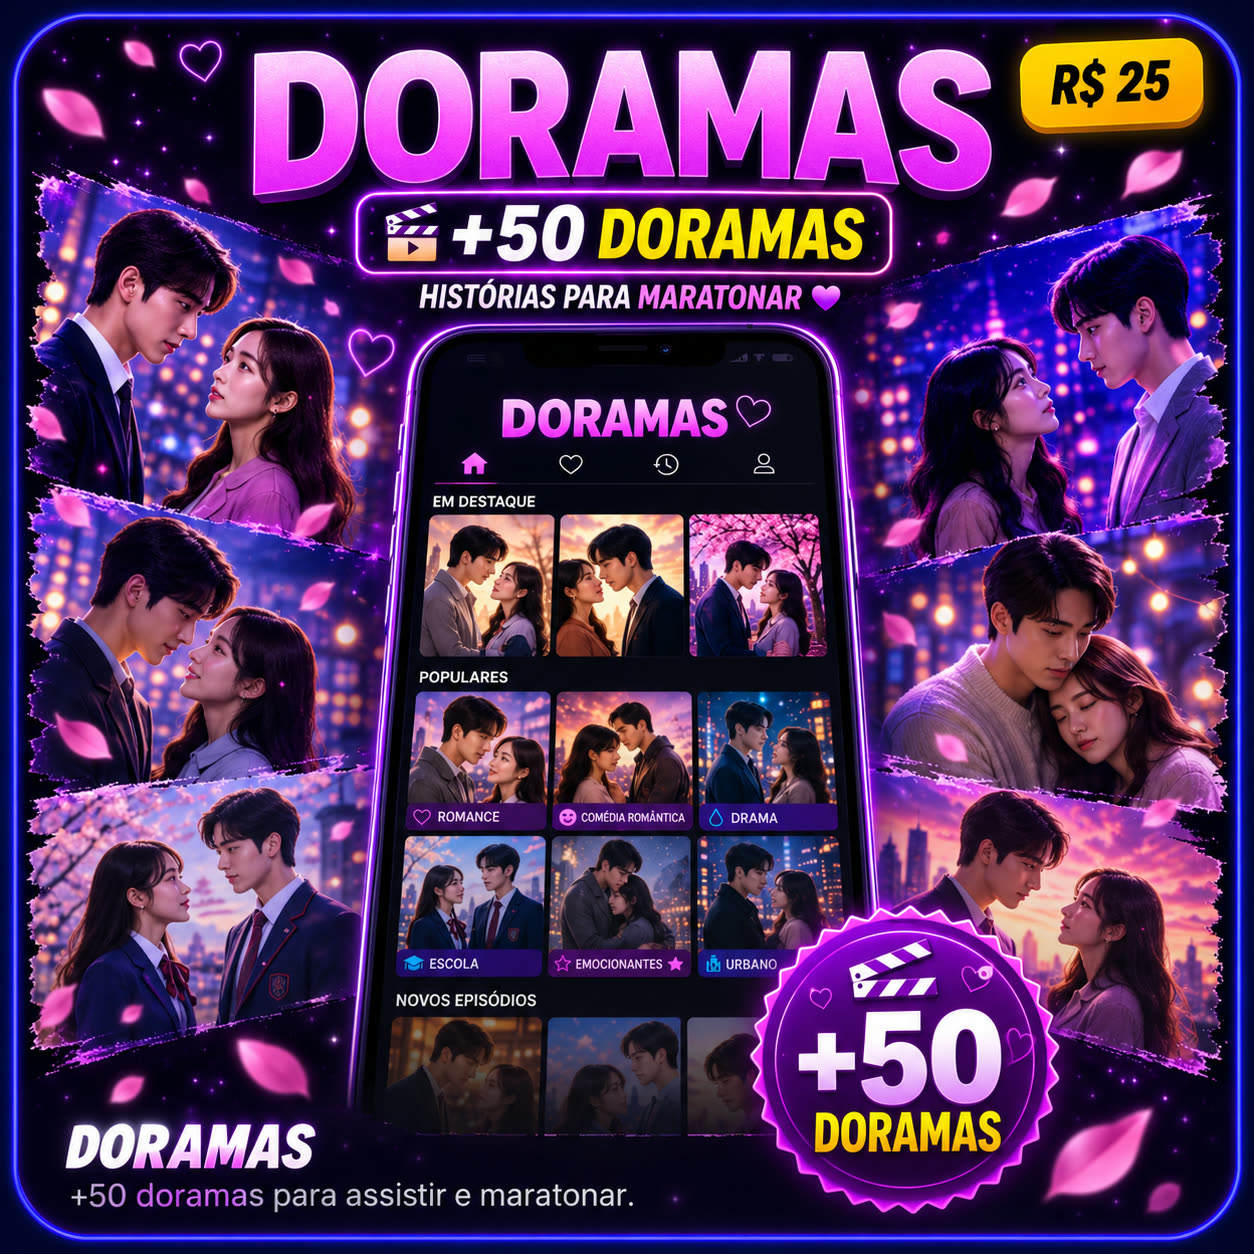
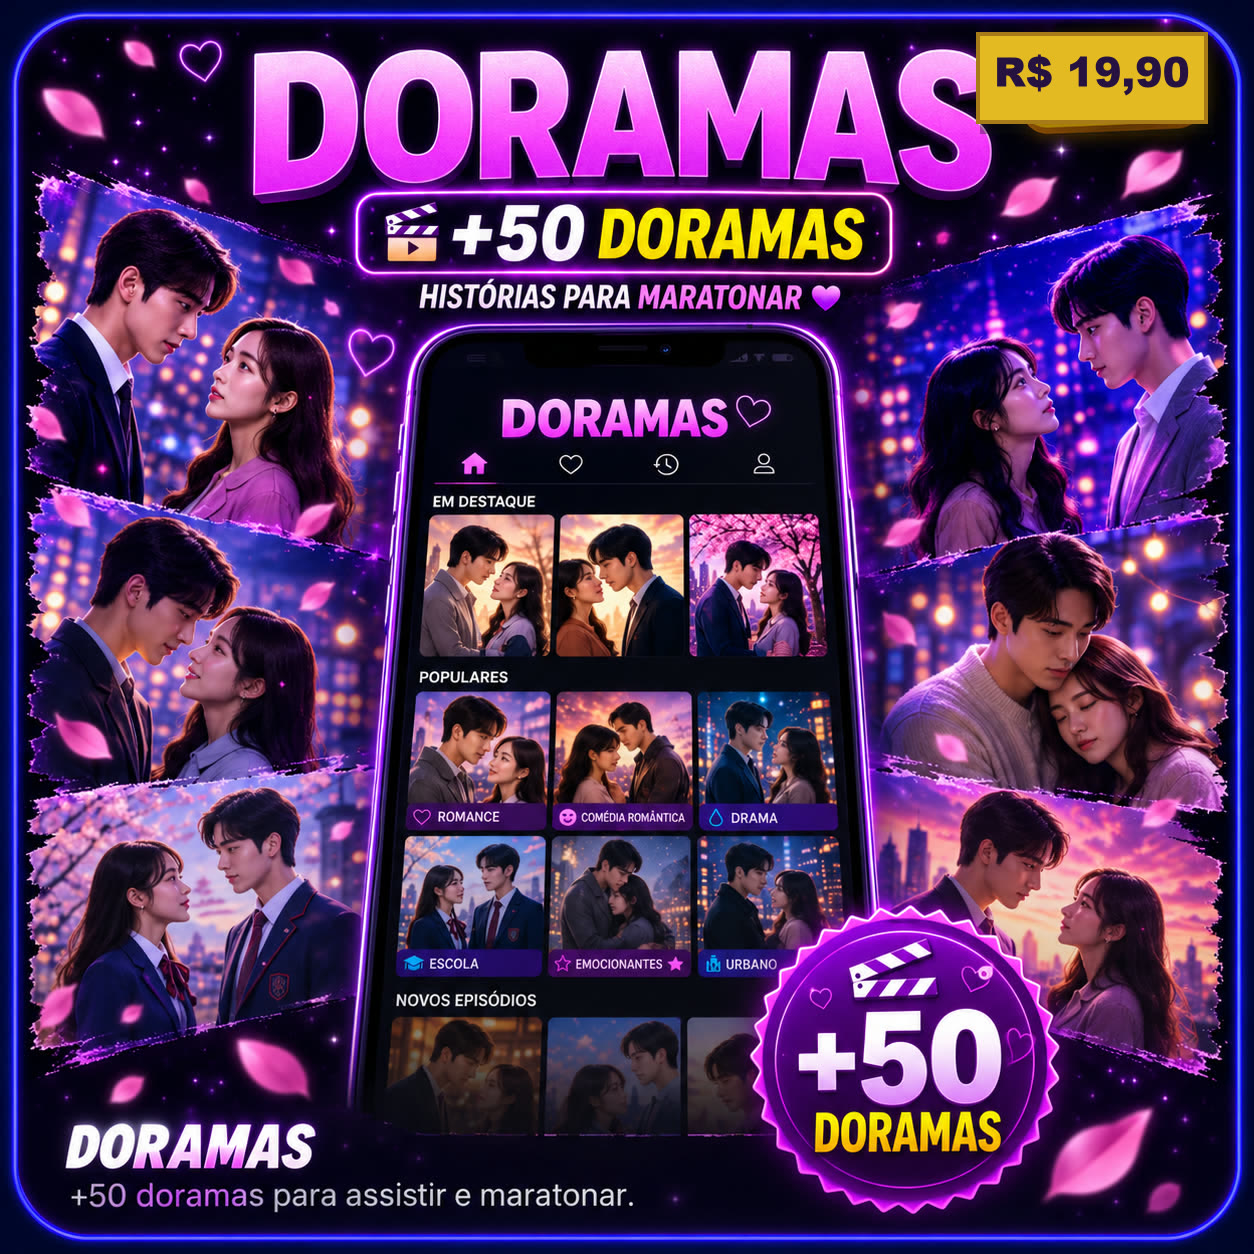
Doramas Flix: preço passa de R$ 25 para R$ 19,90
- Repinta o selo de preço no banner (public/doramas-banner.jpg)
- Atualiza o texto de fallback do hero

Changed region(s): [[0.7775, 0.0, 0.9641, 0.1244]]

diff --git a/src/routes/doramas.tsx b/src/routes/doramas.tsx
@@ -47,7 +47,7 @@ function DoramasFlix() {
           {semBanner ? (
             <div className="flex flex-col items-center gap-3 px-6 py-16 text-center">
               <span className="rounded-full bg-yellow-400 px-3 py-1 text-sm font-extrabold text-[#2b0a4a]">
-                R$ 25
+                R$ 19,90
               </span>
               <h1 className="text-4xl font-extrabold uppercase tracking-tight text-white sm:text-5xl">
                 Doramas Flix
